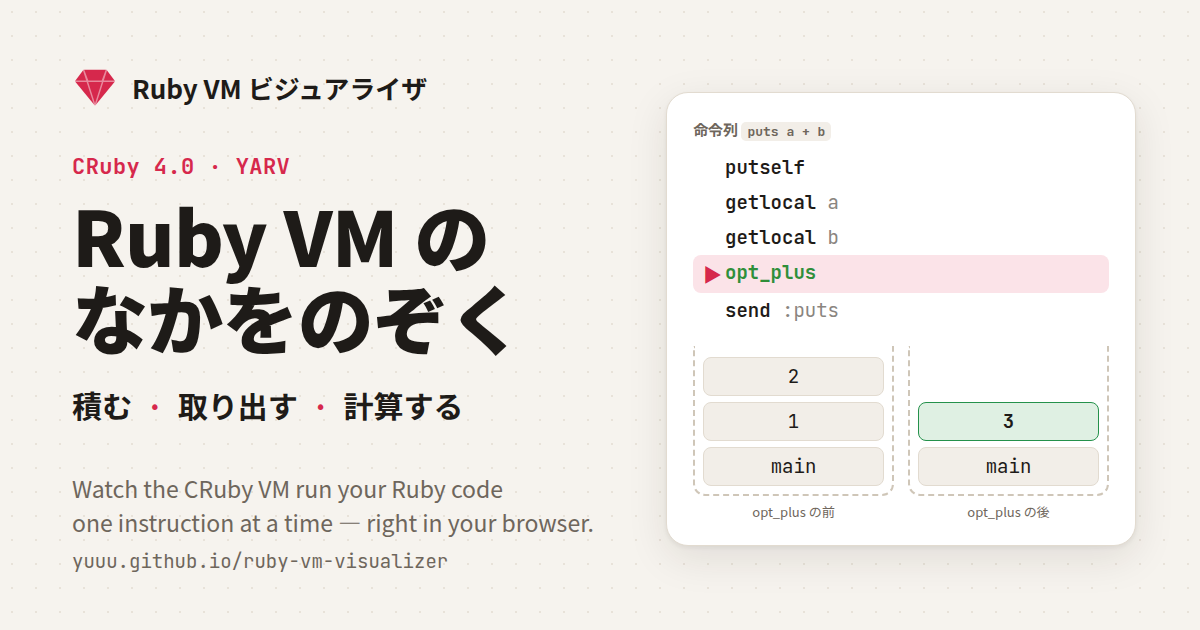
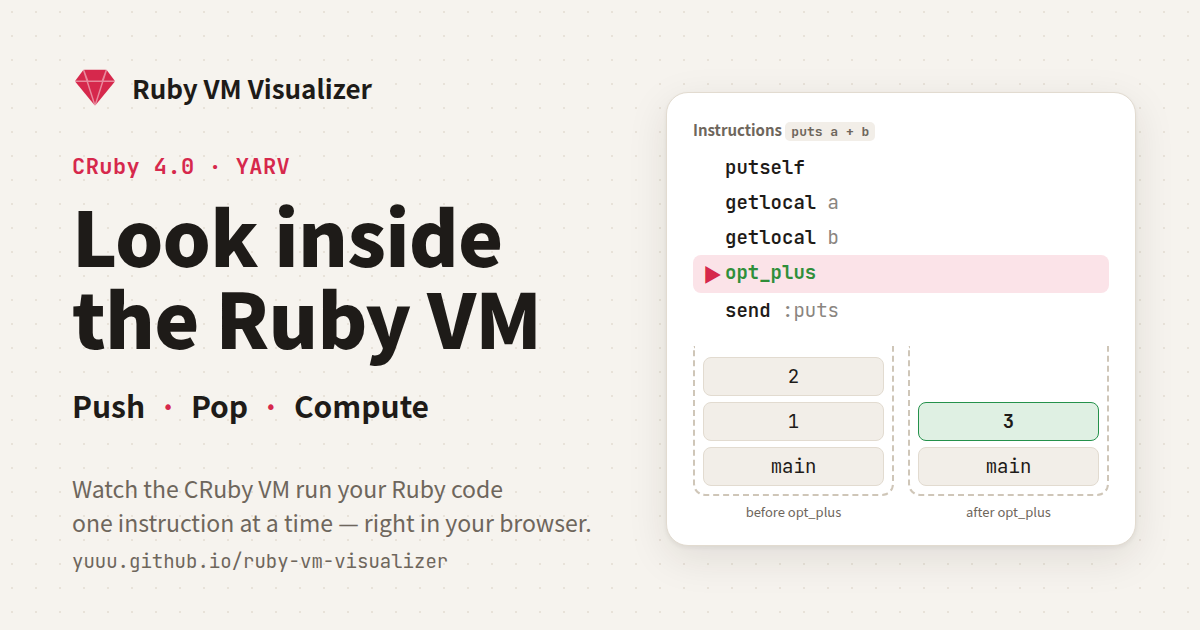
Use English in the OGP image
Claude-Session: https://claude.ai/code/session_01TLr2myJ3YrPPcim4p8dWNf

diff --git a/design/ogp.html b/design/ogp.html
@@ -1,6 +1,6 @@
 <!-- Source of public/ogp.png. Open in a browser at 1200x630 and take a screenshot to regenerate it. -->
 <!doctype html>
-<html lang="ja">
+<html lang="en">
 <head>
 <meta charset="utf-8">
 <link href="https://fonts.googleapis.com/css2?family=JetBrains+Mono:wght@400;600;700&family=Noto+Sans+JP:wght@400;500;700;900&display=swap" rel="stylesheet">
@@ -41,16 +41,16 @@
     <div class="left">
       <div class="brand">
         <svg viewBox="0 0 32 32"><path d="M8 4h16l6 8-14 17L2 12z" fill="#d6284c"/><path d="M2 12h28M8 4l8 25M24 4l-8 25M8 4l3 8M24 4l-3 8" stroke="#fff" stroke-opacity=".45" fill="none"/></svg>
-        Ruby VM ビジュアライザ
+        Ruby VM Visualizer
       </div>
       <div class="eyebrow">CRuby 4.0 · YARV</div>
-      <h1>Ruby VM の<br>なかをのぞく</h1>
-      <div class="tag">積む <i>·</i> 取り出す <i>·</i> 計算する</div>
+      <h1>Look inside<br>the Ruby VM</h1>
+      <div class="tag">Push <i>·</i> Pop <i>·</i> Compute</div>
       <div class="en">Watch the CRuby VM run your Ruby code<br>one instruction at a time — right in your browser.</div>
       <div class="url">yuuu.github.io/ruby-vm-visualizer</div>
     </div>
     <div class="card">
-      <div class="t">命令列 <code>puts a + b</code></div>
+      <div class="t">Instructions <code>puts a + b</code></div>
       <div class="ins"><span></span><span><b>putself</b></span></div>
       <div class="ins"><span></span><span><b>getlocal</b> a</span></div>
       <div class="ins"><span></span><span><b>getlocal</b> b</span></div>
@@ -63,14 +63,14 @@
             <div class="slot">1</div>
             <div class="slot">2</div>
           </div>
-          <div class="lbl">opt_plus の前</div>
+          <div class="lbl">before opt_plus</div>
         </div>
         <div>
           <div class="col">
             <div class="slot">main</div>
             <div class="slot push">3</div>
           </div>
-          <div class="lbl">opt_plus の後</div>
+          <div class="lbl">after opt_plus</div>
         </div>
       </div>
     </div>
